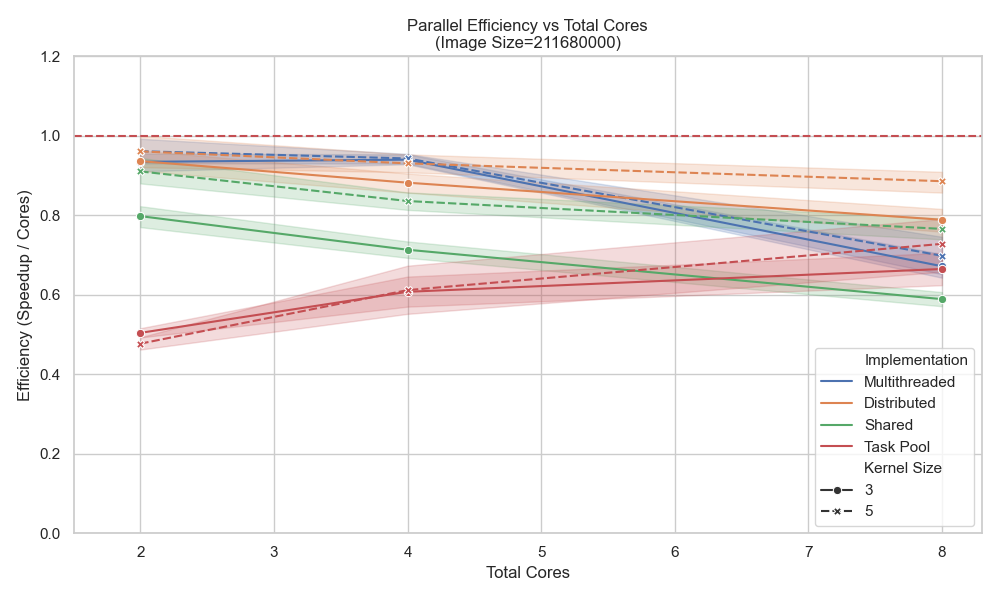
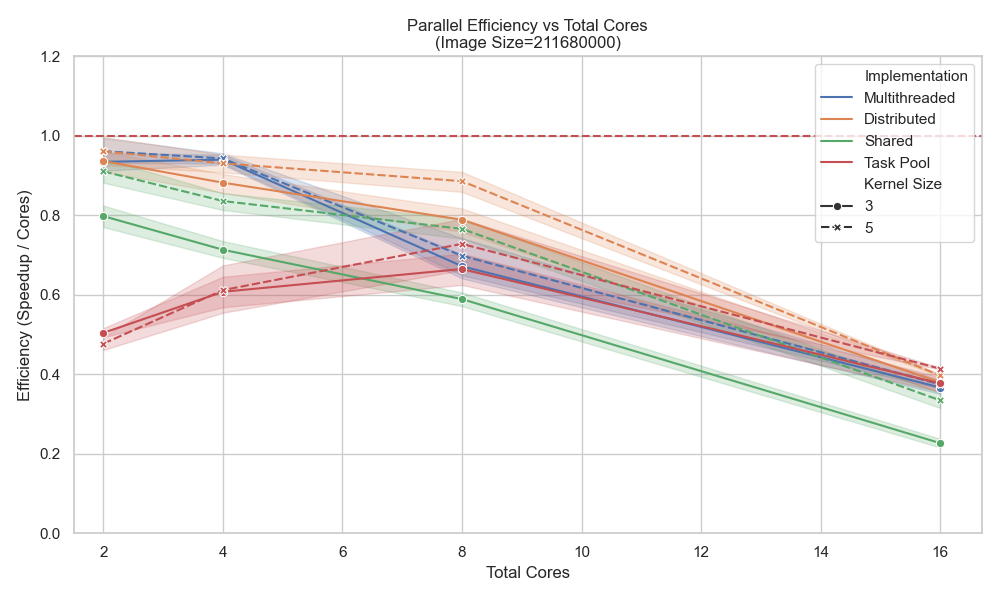
Refactor MPI scatter/gather vars, add new data and plots
Renamed displacement variables to offset variables in the distributed filesystem convolution implementation for clarity. Added new distributed timing data (distributed_data.csv) and updated several performance plot images, including a new speedup plot for C4_T4.

diff --git a/benchmark/src/image/convolution.c b/benchmark/src/image/convolution.c
@@ -218,17 +218,17 @@ app_error convolve_parallel_distributed_filesystem(Image *img,
 
   // Prepare Scatterv counts
   int *scatter_counts_bytes = NULL;
-  int *scatter_displs_bytes = NULL;
+  int *scatter_offset_bytes = NULL;
   if (rank == 0) {
     scatter_counts_bytes = malloc(size * sizeof(int));
-    scatter_displs_bytes = malloc(size * sizeof(int));
-    int current_disp = 0;
+    scatter_offset_bytes = malloc(size * sizeof(int));
+    int current_offset = 0;
     for (int r = 0; r < size; r++) {
       int rank_chunk_h, rank_start_y;
       get_chunk_metadata(height, r, size, &rank_start_y, &rank_chunk_h);
       scatter_counts_bytes[r] = rank_chunk_h * width * sizeof(Pixel);
-      scatter_displs_bytes[r] = current_disp;
-      current_disp += scatter_counts_bytes[r];
+      scatter_offset_bytes[r] = current_offset;
+      current_offset += scatter_counts_bytes[r];
     }
   }
 
@@ -249,13 +249,13 @@ app_error convolve_parallel_distributed_filesystem(Image *img,
   Pixel *scatter_target = padded_input + halo_size * width;
   // Note: MPI_Scatterv sends bytes because we used sizeof(Pixel) in counts
   MPI_Scatterv((rank == 0) ? img->data : NULL, scatter_counts_bytes,
-               scatter_displs_bytes, MPI_BYTE, scatter_target,
+               scatter_offset_bytes, MPI_BYTE, scatter_target,
                chunk_height * width * sizeof(Pixel), MPI_BYTE, 0,
                MPI_COMM_WORLD);
 
   if (rank == 0) {
     free(scatter_counts_bytes);
-    free(scatter_displs_bytes);
+    free(scatter_offset_bytes);
   }
 
   // 5. Fill Boundaries / Exchange Halos
@@ -318,23 +318,23 @@ app_error convolve_parallel_distributed_filesystem(Image *img,
   // 7. Gather Results
   // Re-calculate counts for Gatherv
   int *gather_counts_bytes = NULL;
-  int *gather_displs_bytes = NULL;
+  int *gather_offset_bytes = NULL;
   if (rank == 0) {
     gather_counts_bytes = malloc(size * sizeof(int));
-    gather_displs_bytes = malloc(size * sizeof(int));
-    int current_disp = 0;
+    gather_offset_bytes = malloc(size * sizeof(int));
+    int current_offset = 0;
     for (int r = 0; r < size; r++) {
       int rank_chunk_h, rank_start_y;
       get_chunk_metadata(height, r, size, &rank_start_y, &rank_chunk_h);
       gather_counts_bytes[r] = rank_chunk_h * width * sizeof(Pixel);
-      gather_displs_bytes[r] = current_disp;
-      current_disp += gather_counts_bytes[r];
+      gather_offset_bytes[r] = current_offset;
+      current_offset += gather_counts_bytes[r];
     }
   }
 
   MPI_Gatherv(output_chunk, chunk_height * width * sizeof(Pixel), MPI_BYTE,
               (rank == 0) ? img->data : NULL, gather_counts_bytes,
-              gather_displs_bytes, MPI_BYTE, 0, MPI_COMM_WORLD);
+              gather_offset_bytes, MPI_BYTE, 0, MPI_COMM_WORLD);
 
   // 8. Cleanup
   free(padded_input);
@@ -343,7 +343,7 @@ app_error convolve_parallel_distributed_filesystem(Image *img,
     free(local_kernel_data);
   if (rank == 0) {
     free(gather_counts_bytes);
-    free(gather_displs_bytes);
+    free(gather_offset_bytes);
   }
 
   double end_time = MPI_Wtime();
